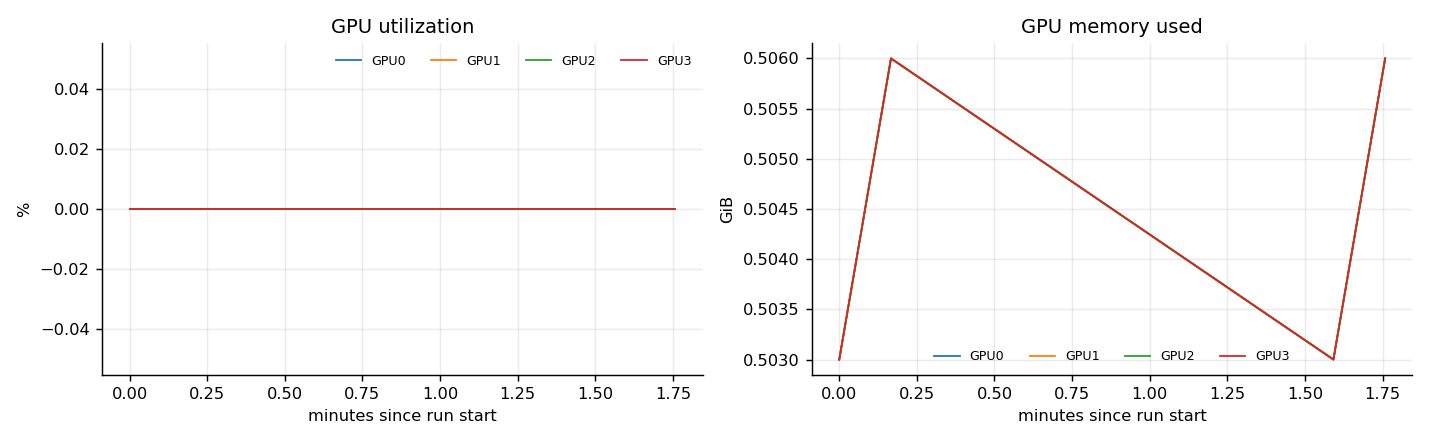
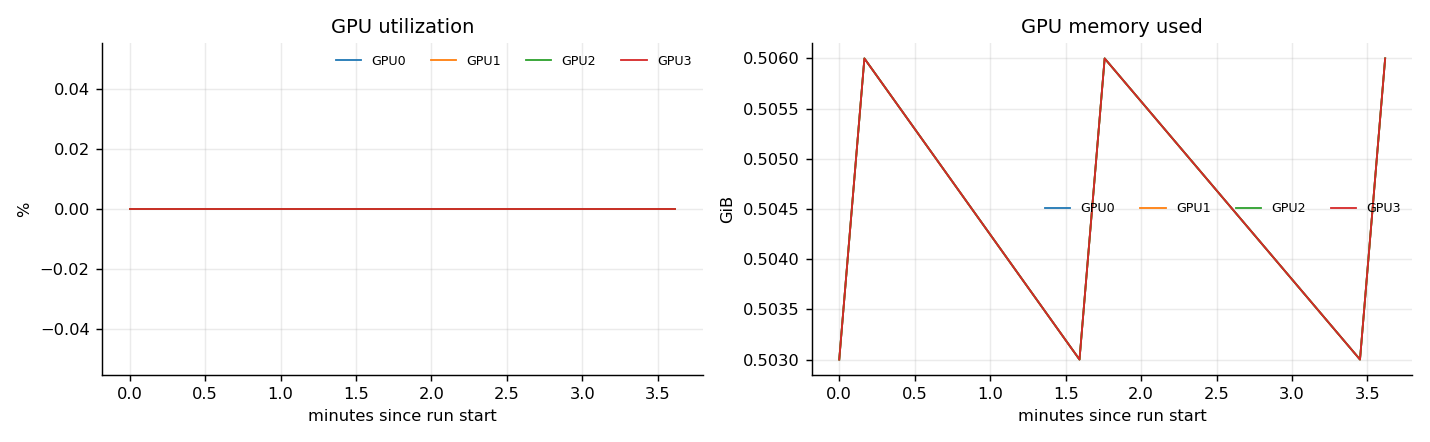
obs(R2_dapo_smoke): run-end-exit-1 telemetry sync
Automated flight-recorder sync (run-end-exit-1).
Files: 7

diff --git a/experiments/R2_dapo_smoke/RUN_REPORT.md b/experiments/R2_dapo_smoke/RUN_REPORT.md
@@ -1,10 +1,10 @@
 # Run Report — R2_dapo_smoke
 
-**Run UID:** `R2_dapo_smoke-20260910-170251`
+**Run UID:** `R2_dapo_smoke-20260910-170443`
 **Outcome:** **FAILED (exit 1)**
 **Duration:** 0.3 min
 **Optimizer updates recorded:** 0
-**Generated:** 2026-09-10T17:03:07
+**Generated:** 2026-09-10T17:05:00
 
 ## Configuration
 
@@ -14,9 +14,9 @@
 | Model | Qwen/Qwen3-8B |
 | Dataset | BytedTsinghua-SIA/DAPO-Math-17k |
 | VeRL commit | `1252cc71aa5bd82e5604322064d69bfe6454c660` |
-| Lab commit at start | `f98e46cc660f5739f890401612d770d6eddd4d62` |
+| Lab commit at start | `7ff8aee98541fb12a632eafab03683c60c62f44d` |
 | Seed | 20260910 |
-| Started | 2026-09-10T17:02:51 |
+| Started | 2026-09-10T17:04:43 |
 | Exit code | `1` |
 
 Launch command: `command.txt`. When present, `launch_overrides.json` records overrides extracted from the actual trainer log; it is not a full resolved configuration. Check `resolved_config.yaml` before treating it as evidence (R1 originally contained only a placeholder).

diff --git a/status/latest.md b/status/latest.md
@@ -1,16 +1,16 @@
 # Live Run Status
 
-_Updated 2026-09-10T17:02:56 · health **GREEN**_
+_Updated 2026-09-10T17:04:49 · health **GREEN**_
 
 | | |
 |---|---|
-| Run | `R2_dapo_smoke` (`R2_dapo_smoke-20260910-170251`) |
+| Run | `R2_dapo_smoke` (`R2_dapo_smoke-20260910-170443`) |
 | Algorithm | DAPO |
 | Model | Qwen/Qwen3-8B |
 | Dataset | BytedTsinghua-SIA/DAPO-Math-17k |
 | Current optimizer step | **None** |
 | Updates recorded | 0 |
-| Elapsed | 6 s |
+| Elapsed | 7 s |
 | Health | **GREEN** |
 
 ## Latest update
@@ -41,7 +41,7 @@ disk / : 1.27%   disk data: 3.06%
 0 recorded. Latest: `none`
 
 Last checkpoint: `none`
-Git commit: `39402c2`
+Git commit: `2e3160a`
 
 _Values shown as `unavailable` are metrics the current VeRL build does not emit.
 They are never substituted with 0._

diff --git a/README.md b/README.md
@@ -305,7 +305,7 @@ KL — · entropy — ·
 effective signal — ·
 incidents 0
 
-_Auto-updated 2026-09-10T17:02:56 by `scripts/monitoring/github_sync.py`. Full status: [`status/latest.md`](status/latest.md)._
+_Auto-updated 2026-09-10T17:04:49 by `scripts/monitoring/github_sync.py`. Full status: [`status/latest.md`](status/latest.md)._
 <!-- STATUS_END -->
 
 The status block above is the only region of this file written automatically
